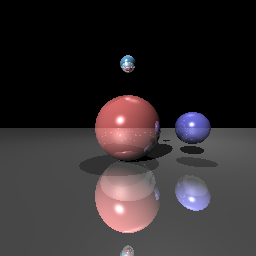
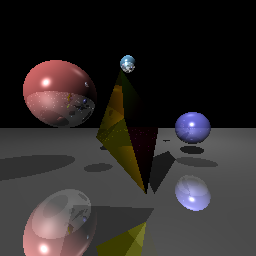
Finish

Changed region(s): [[0.0625, 0.2188, 0.6875, 1.0], [0.4688, 0.25, 0.5312, 0.3125]]

diff --git a/hw3.py b/hw3.py
@@ -131,9 +131,9 @@ def your_own_scene():
     # Objects in the scene
     objects = [
         Plane(normal=np.array([0, 1, 0]), point=np.array([0, -1, 0])),  # Horizontal plane at y = -1
-        Sphere(center=np.array([0, 0, -3]), radius=1),  # Sphere on the left
-        Sphere(center=np.array([2, 0, -3]), radius=0.5),
-        Sphere(center=np.array([0, 2, -3]), radius=0.25) # Smaller sphere on the right
+        Sphere(center=np.array([-2, 1, -3]), radius=1),  # Sphere on the left
+        Sphere(center=np.array([2, 0, -3]), radius=0.5),  # Sphere on the right
+        Sphere(center=np.array([0, 2, -3]), radius=0.25)  # Smaller sphere above
     ]
 
     # Setting materials for the objects
@@ -154,7 +154,7 @@ def your_own_scene():
     )
 
     objects[3].set_material(
-        ambient=np.array([0.64, 1, 0.12]),  # Blue
+        ambient=np.array([0.64, 1, 0.12]),  # Green
         diffuse=np.array([0.5, 0.8, 1]),
         specular=np.array([1, 1, 1]),
         shininess=30,
@@ -168,6 +168,21 @@ def your_own_scene():
         shininess=10,
         reflection=0.8
     )
+
+    # Adjusted vertices for the pyramid to be closer to the camera and visible
+    v_list = np.array(
+    [
+        [-0.5, -0.142, -0.998],
+        [-0.034, 0.092, -0.145],
+        [0.484, 0.031, -0.998],
+        [-0.104, 0.851, -0.828],
+        [0.23, -0.833, -0.591]
+    ])
+
+    pyramid = Pyramid(v_list)
+    pyramid.set_material([0.5, -0.4, 0.1], [0.1, 0.1, -0.7], [0.3, 0.8, 0.3], 5, 0.5)
+    pyramid.apply_materials_to_triangles()
+    objects.append(pyramid)
 
     return camera, lights, objects
 

diff --git a/helper_classes.py b/helper_classes.py
@@ -173,7 +173,7 @@ class Triangle(Object3D):
         return normalize(cross_product)
 
     def intersect(self, ray: Ray):
-        #we did
+        # # #we did
         vecAB = self.b - self.a
         vecAC = self.c - self.a
         a = np.column_stack((vecAB, vecAC, -ray.direction))
